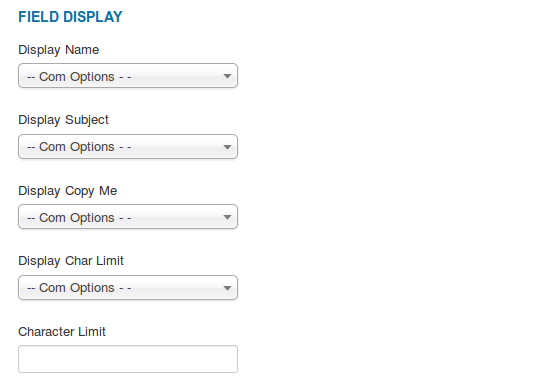
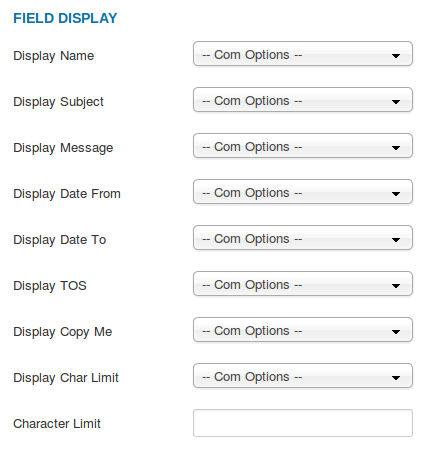
More updates to the Contact guide for an up coming release.

diff --git a/docs/joomla/extensions/contact/guide.md b/docs/joomla/extensions/contact/guide.md
@@ -1,7 +1,6 @@
 ## Table of Contents
 1.  [Component Guide](#component-guide)
     -   [Control Panel](#control-panel)
-    -   [One Click Updates](#updates)
     -   [Inbuilt Help](#help)
     -   [Extension Options](#options)
         - [1. General Contact Options](#options-general)
@@ -14,8 +13,9 @@
         - [8. Component Permissions](#options-permissions)
 2.  [Contact Module Guide](#module)
     -   [General Display Options](#mod-general)
-    -   [Capctha Options](#mod-captcha)
-    -   [Advanced Options](#mod-advanced)
+    -   [Custom Fields](#mod-general)
+    -   [Captcha](#mod-captcha)
+    -   [Advanced](#mod-advanced)
     -   [Release Information](#mod-release)
 3.  [Plugin Guide \[Pro\]](#plg)
     -   [Content Plugin - Contact](#plg-content)
@@ -50,16 +50,15 @@ To make it easier to follow I have broken up the General settings into three par
 
 The first thing that will need to be filled in is the **Recipient Email** without this the system will display an error message. If you have purchased a Pro subscription you will also have two additional fields a CC Email and a BCC email. Next you have a **Default Subject** option this will display in the email subject followed by the submitters subject if you have chosen to display this option. Next is the **Mail From** option where you can choose to have the email sent by the **Contact Form User** or by the **Joomla Mail Settings**. In some cases you have will have to use the **Joomla Mail Settings** for the system to work correctly due to hosting or service provider restrictions.
 
-Next youhave an option to chose the format you wish the emails to be sent in. If you are using the core version you will only have the **No HTML** optionbut for Pro users you will have two additional options of **Basic HTML** and **Rich HTML**. The last option in Part1 is **Redirection** after the mail has been successfully sent. The **Core** version gives you two options the first one is to return to the **Same Page** that the form was submitted on while the second one will return the user to the **Home Page** of your website. The **Pro** version has an additional **Cutom URL** option that if chosen will redirect the user to the URL entered in the following **Custom URL** field. *\[Figure-3\]*
+Next youhave an option to chose the format you wish the emails to be sent in. If you are using the core version you will only have the **No HTML** optionbut for Pro users you will have two additional options of **Basic HTML** and **Rich HTML**. The last option in Part1 is **Redirection** after the mail has been successfully sent. The **Core** version gives you two options the first one is to return to the **Same Page** that the form was submitted on while the second one will return the user to the **Home Page** of your website. The **Pro** version has an additional **Custom URL** option that if chosen will redirect the user to the URL entered in the following **Custom URL** field. *\[Figure-3\]*
 
 ![Figure-3](images/docs/joomla/extensions/contact/cw-contact-config-general1.png "Figure-3"){.coalaweb-docs}
 
 #### Part 2
 
-Next we have some **Field Display** options that will affect what and how items are displayed within the contact form. Firstly you have the option to turn on or off the display of the following fields **Name**, **Subject** and **Message** and also if they are required. If you are using the **Pro** version you will also have two more options a **Date From** and **Date To** these will display **Calendar** input fields in the form. If you have chosen to display either of date input fields you can also chose the date format to be used. The avaliable options coincide with Joomla's standard types such as **LC3**. The **Display Format** option will display an example of the currently acceptable format under the date fields which is handy when JavaScript is turned off on the users computer so they can still input the date manually using the correct format. 
+Next we have some **Field Display** options that will affect what and how items are displayed within the contact form. Firstly you have the option to turn on or off the display of the following fields **Name**, **Subject** and **Message** and also if they are required. If you are using the **Pro** version you will also have two more options **Date From** and **Date To** these will display with a **Calendar** selector next to these fields. If you have chosen to display either of date input fields you can also chose the date format to be used. The avaliable options coincide with Joomla's standard types such as **LC3**. The **Display Format** option will display an example of the currently acceptable format under the date fields which is handy when JavaScript is turned off on the users computer so they can still input the date manually using the correct format. 
 
-The next option gives **Pro** users the ability to display a **Terms of Service** input field that can also be set to required. If you want to display the **TOS**  you will also need to enter an article **ID** in the **TOS Article ID** this is the article that will be displayed in a popup window so users can read before agreeing. Next you can chose to display a **Copy Me** field allowing users to receive a copy of the form when they submit it. The last two options are for the **Pro** subscribers and they allow you
-to set and display the **Character Limit** for the message field of the form. If displayed the **Character Limit** will count down as text is entered into the message field. *\[Figure-4\]*
+The next option gives **Pro** users the ability to display a **Terms of Service** input field that can also be set to required. If you want to display the **TOS**  you will also need to enter an article **ID** in the **TOS Article ID** this is the article that will be displayed in a popup window so users can read before agreeing. Next you can chose to display a **Copy Me** field allowing users to receive a copy of the form when they submit it. The last two options are for the **Pro** subscribers and they allow you to set and display the **Character Limit** for the message field of the form. If displayed the **Character Limit** will count down as text is entered into the message field. *\[Figure-4\]*
 
 ![Figure-4](images/docs/joomla/extensions/contact/cw-contact-config-general2.png "Figure-4"){.coalaweb-docs}
 
@@ -131,7 +130,7 @@ answer type Captcha [The Default Captcha]. They allow you to chose a
 question to be displayed and the answer to be check against before
 allowing the form to be submitted. The default question is:
 
-`Question = How wheels does a bicycle have?`
+`Question = How many wheels does a bicycle have?`
 
 `Answer = 2`
 
@@ -176,7 +175,7 @@ In this section there is only one option to turn on or off the **Email Cloak** l
 
 ### 7.<a name="options-updates"></a>Update Options
 
-The CoalaWeb Social Links extension integrates with the inbuilt
+The CoalaWeb Contact extension integrates with the inbuilt
 **Joomla Update** system so both **Core** and **Pro** users can keep their
 extension up to date. For the **Pro** users you will have to copy and
 paste your **Download ID** into this field to allow the update system to
@@ -208,10 +207,10 @@ component. *\[Figure-12\]*
 
 ### <a name="mod-general"></a>General Display Options
 
-The options below will overridden the component configuration.
-
 To make it easier to follow I have broken up the General settings into
-three parts.
+four parts.
+
+**Note:** The options below will override the component configuration.
 
 #### Part 1
 
@@ -227,18 +226,19 @@ display this option. *\[Figure-13\]*
 
 #### Part 2
 
-Next we have some **Field Display** options that will affect what and
-how items are displayed with in the contact form. Firstly you have the
-option to display or not a Name or Subject input field you can also
-chose to have it as a required field. Next you can chose to display a
-Copy Me field allowing users to receive a copy of the form when they
-submit it. The last two option are for the **Pro** subscribers and they
-allow you to set and display the Character Limit for the message field
-of the form. *\[Figure-14\]*
+Next we have some **Field Display** options that will affect what and how items are displayed within the contact form. Firstly you have the option to turn on or off the display of the following fields **Name**, **Subject** and **Message** and also if they are required. If you are using the **Pro** version you will also have two more options **Date From** and **Date To** these will display with a **Calendar** selector next to these fields. 
+
+The next option gives **Pro** users the ability to display a **Terms of Service** input field that can also be set to required. Note: If you want to display the **TOS**  you will also need to enter an article **ID** in the **Component** configuration options. Next you can chose to display a **Copy Me** field allowing users to receive a copy of the form when they submit it. The last two options are for the **Pro** subscribers and they allow you to set and display the **Character Limit** for the message field of the form. If displayed the **Character Limit** will count down as text is entered into the message field. *\[Figure-14\]*
 
 ![Figure-14](images/docs/joomla/extensions/contact/cw-contact-mod-config-general2.png "Figure-14"){.coalaweb-docs}
 
 #### Part 3
+
+In this section you can set the **Redirection** after the mail has been successfully sent. The **Core** version gives you two options the first one is to return to the **Same Page** that the form was submitted on while the second one will return the user to the **Home Page** of your website. The **Pro** version has an additional **Custom URL** option that if chosen will redirect the user to the URL entered in the following **Custom URL** field. *\[Figure-14b\]*
+
+![Figure-14b](images/docs/joomla/extensions/contact/cw-contact-mod-config-general2b.png "Figure-14b"){.coalaweb-docs}
+
+#### Part 4
 
 Lastly we have some **Layout & Style** options that will affect the look
 and feel of the contact form. The first option allows you to choose a
@@ -264,6 +264,12 @@ form into your content. *\[Figure-15\]*
 
 ![Figure-15](images/docs/joomla/extensions/contact/cw-contact-mod-config-general3.png "Figure-15"){.coalaweb-docs}
 
+### <a name="mod-custom"></a>Custom Fields
+
+In this section you can choose to display one custom field for **Core** users or up to three for **Pro** users. The specifics for each custom fields can be found in the component configuration options. *\[Figure-15b\]*
+
+![Figure-15b](images/docs/joomla/extensions/contact/cw-contact-mod-config-custom1.png "Figure-15b"){.coalaweb-docs}
+
 ### <a name="mod-captcha"></a>Captcha
 
 The next options group allows you to display a **Captcha** to attempt to
@@ -281,7 +287,7 @@ answer Captcha they allow you to chose a question to be displayed and
 the answer to be check against before allowing the form to be submitted.
 The default question is:
 
-`Question = How wheels does a bicycle have?`
+`Question = How many wheels does a bicycle have?`
 
 `Answer = 2`
 
